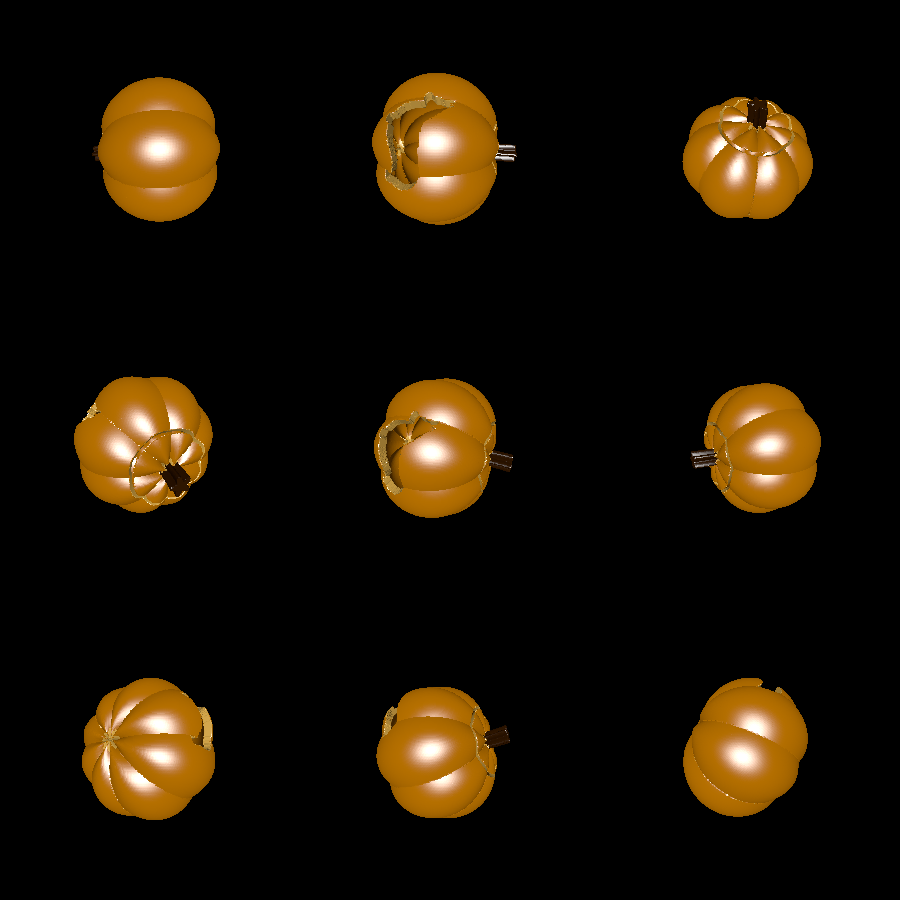
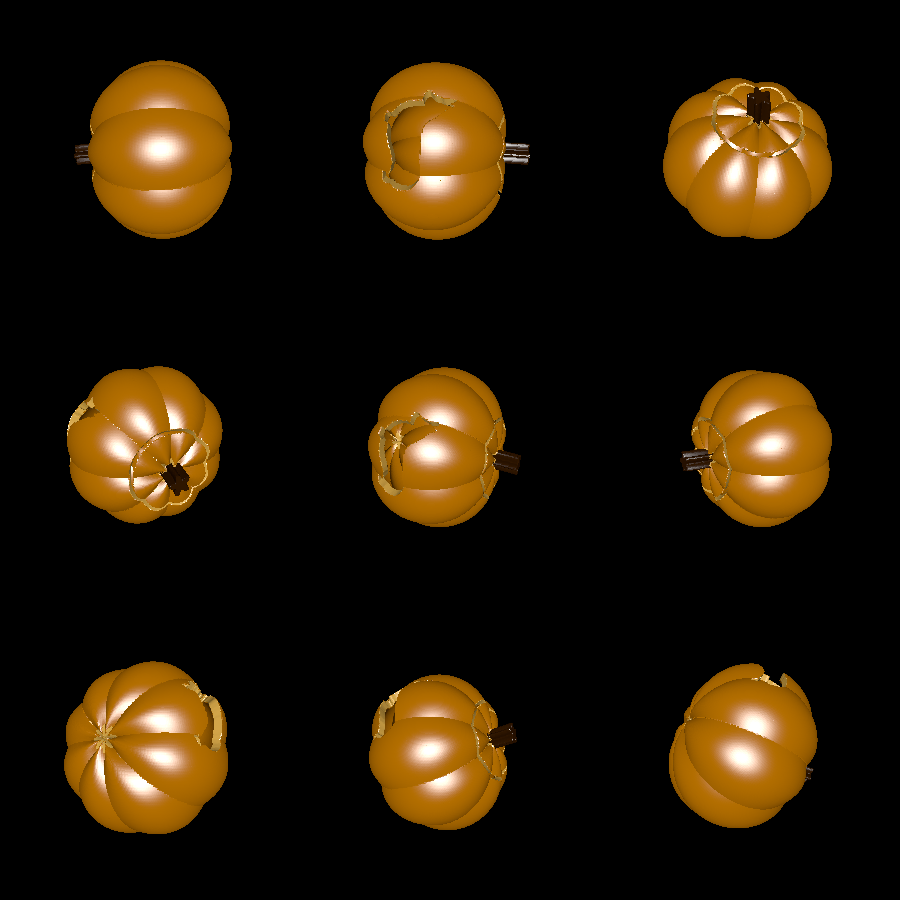
pumpkin: cleanup code + smoothing

diff --git a/examples/decoration/pumpkin/main.go b/examples/decoration/pumpkin/main.go
@@ -1,13 +1,12 @@
 package main
 
 import (
-	"image"
-	"image/png"
 	"io/ioutil"
+	"log"
 	"math"
-	"os"
 
-	"github.com/unixpickle/essentials"
+	"github.com/unixpickle/model3d/model2d"
+
 	"github.com/unixpickle/model3d"
 	"github.com/unixpickle/model3d/render3d"
 )
@@ -15,23 +14,13 @@ import (
 const Thickness = 0.9
 
 func main() {
-	r, err := os.Open("etching.png")
-	essentials.Must(err)
-	defer r.Close()
-	etching, err := png.Decode(r)
-	essentials.Must(err)
-
 	pumpkin := &model3d.SubtractedSolid{
 		Positive: PumpkinSolid{Scale: 1},
 		Negative: PumpkinSolid{Scale: Thickness},
 	}
 	base := &model3d.SubtractedSolid{
 		Positive: LidSolid{Solid: pumpkin},
-		Negative: EtchSolid{
-			Radius: 1.6,
-			Height: 1.5,
-			Image:  etching,
-		},
+		Negative: NewEtchSolid(),
 	}
 	lid := LidSolid{IsLid: true, Solid: model3d.JoinedSolid{pumpkin, StemSolid{}}}
 
@@ -48,9 +37,14 @@ func main() {
 		return [3]float64{79.0 / 255, 53.0 / 255, 0}
 	}
 
+	log.Println("Creating mesh...")
 	mesh := model3d.MarchingCubesSearch(base, 0.02, 8)
 	mesh.AddMesh(model3d.MarchingCubesSearch(lid, 0.02, 8))
+
+	log.Println("Saving mesh...")
 	ioutil.WriteFile("pumpkin.zip", mesh.EncodeMaterialOBJ(colorFunc), 0755)
+
+	log.Println("Rendering...")
 	render3d.SaveRandomGrid("rendering.png", mesh, 3, 3, 300, render3d.TriangleColorFunc(colorFunc))
 }
 
@@ -67,6 +61,9 @@ func (p PumpkinSolid) Max() model3d.Coord3D {
 }
 
 func (p PumpkinSolid) Contains(c model3d.Coord3D) bool {
+	if !model3d.InBounds(p, c) {
+		return false
+	}
 	g := c.Geo()
 	r := p.Scale * (1 + 0.1*math.Abs(math.Sin(g.Lon*4)) + 0.5*math.Cos(g.Lat))
 	return c.Norm() <= r
@@ -83,7 +80,7 @@ func (s StemSolid) Max() model3d.Coord3D {
 }
 
 func (s StemSolid) Contains(c model3d.Coord3D) bool {
-	if c.Max(s.Max()) != s.Max() || c.Min(s.Min()) != s.Min() {
+	if !model3d.InBounds(s, c) {
 		return false
 	}
 	c.X -= 0.15 * math.Pow(c.Y-s.Min().Y, 2)
@@ -115,29 +112,35 @@ func (l LidSolid) Contains(c model3d.Coord3D) bool {
 }
 
 type EtchSolid struct {
-	Image  image.Image
+	Solid  model2d.Solid
 	Radius float64
 	Height float64
 }
 
-func (e EtchSolid) Min() model3d.Coord3D {
+func NewEtchSolid() *EtchSolid {
+	bmp := model2d.MustReadBitmap("etching.png", nil)
+	scale := model2d.Coord{X: 1 / float64(bmp.Width), Y: 1 / float64(bmp.Height)}
+	mesh := bmp.Mesh().SmoothSq(50).MapCoords(scale.Mul)
+	return &EtchSolid{
+		Solid:  model2d.NewColliderSolid(model2d.MeshToCollider(mesh)),
+		Radius: 1.6,
+		Height: 1.5,
+	}
+}
+
+func (e *EtchSolid) Min() model3d.Coord3D {
 	return model3d.Coord3D{X: -e.Radius, Y: -e.Height, Z: -e.Radius}
 }
 
-func (e EtchSolid) Max() model3d.Coord3D {
+func (e *EtchSolid) Max() model3d.Coord3D {
 	return e.Min().Scale(-1)
 }
 
-func (e EtchSolid) Contains(c model3d.Coord3D) bool {
-	if c.Min(e.Min()) != e.Min() || c.Max(e.Max()) != e.Max() {
+func (e *EtchSolid) Contains(c model3d.Coord3D) bool {
+	if !model3d.InBounds(e, c) {
 		return false
 	}
-
 	xFrac := c.Geo().Lon/(math.Pi*2) + 0.5
 	yFrac := 1 - (c.Y+e.Height)/(e.Height*2)
-
-	x := int(math.Round(xFrac * float64(e.Image.Bounds().Dx())))
-	y := int(math.Round(yFrac * float64(e.Image.Bounds().Dy())))
-	r, _, _, _ := e.Image.At(x, y).RGBA()
-	return r < 0xffff/2
+	return e.Solid.Contains(model2d.Coord{X: xFrac, Y: yFrac})
 }
